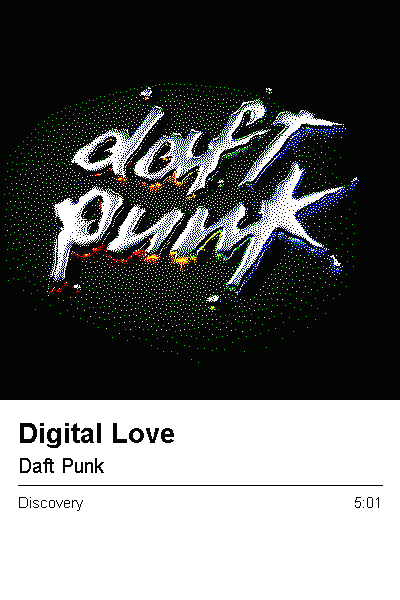
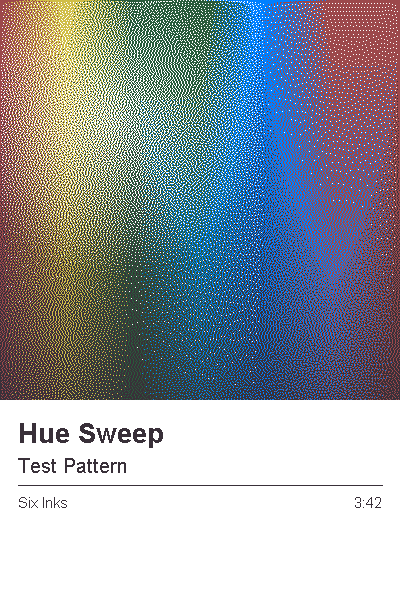
Use a synthetic test pattern for the README images
The previous ones were renders of a real album cover, with the original
reproduced alongside. A hue sweep demonstrates the palette better anyway, and
shows where it genuinely struggles.

diff --git a/README.md b/README.md
@@ -6,7 +6,9 @@ WiFi and draws it. No cable, no account, no API key.
 
 ![Panel frame](docs/img/frame.png)
 
-Source on the left, what the panel prints on the right:
+A synthetic hue sweep, source on the left and the panel's rendering on the
+right. Six inks and a 30:1 contrast ratio, so this is roughly the honest limit -
+note the magenta and cyan bands, which are the hardest for the palette to reach:
 
 ![Source and dithered result](docs/img/compare.png)
 
